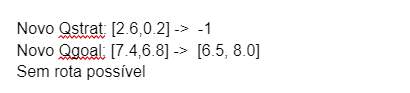
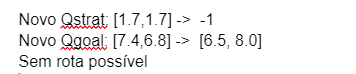
Versão 5

diff --git a/main.py b/main.py
@@ -156,7 +156,7 @@ def main():
     T.limpar_visitados()
     qstart = verticeMaisProximo(T,[1.7,1.7])
     qgoal = verticeMaisProximo(T,[7.4,6.8])
-    print("Novo Qstrat: [2.6,0.2] -> ",qstart)
+    print("Novo Qstrat: [1.7,1.7] -> ",qstart)
     print("Novo Qgoal: [7.4,6.8] -> ",qgoal)
     if qstart != -1 and qgoal != -1:
         print("Caminho Mínimo:")
